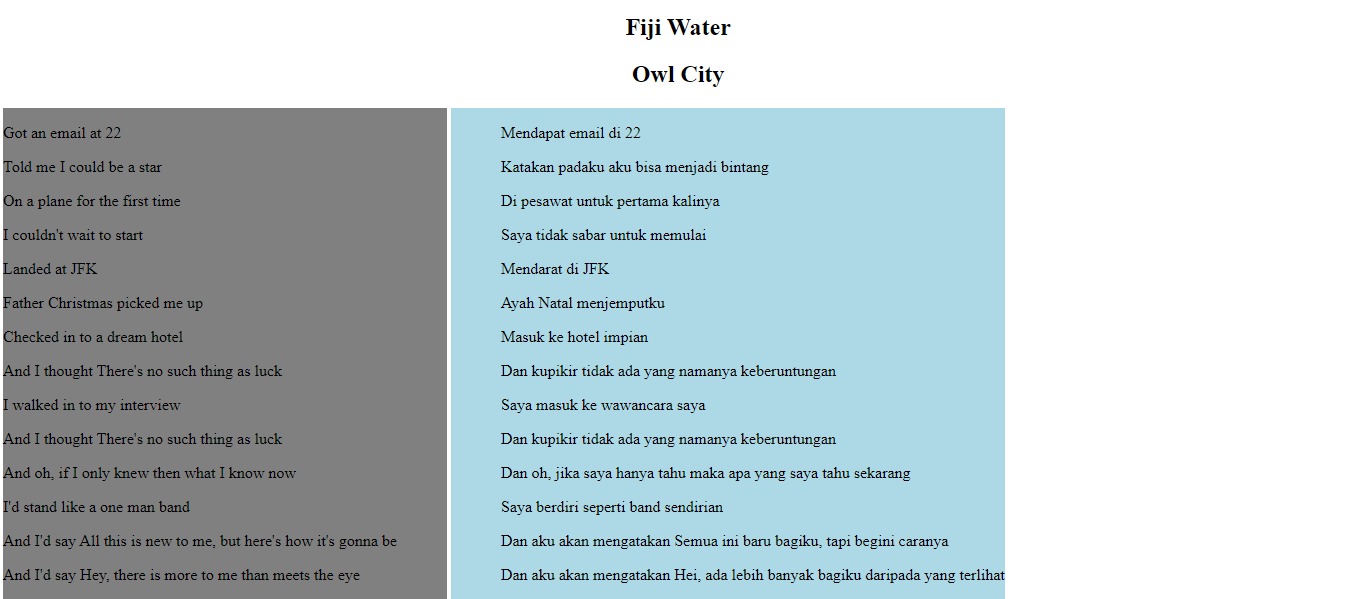
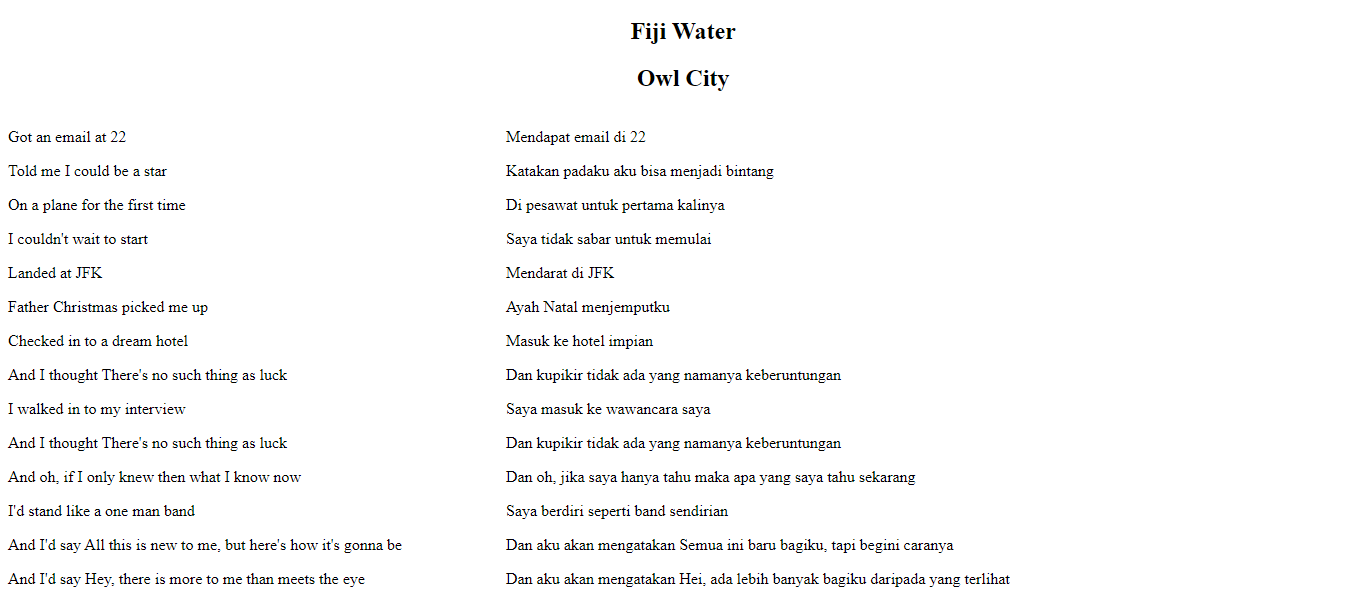
Revisi Case Study

diff --git a/dasar/css/layouting.md b/dasar/css/layouting.md
@@ -1,14 +1,16 @@
-# Permasalahan 
+# Layouting
+
+## 1. Permasalahan 
 
 Sejauh ini, kita telah belajar bagaimana cara membuat tampilan web dan memberikan beberapa property pada tampilan tersebut. Kali ini, kita akan belajar tentang layouting atau tata letak. Sebelumnya, semua elemen seperti `text`, `gambar`, `gif`, dan lain lain hanya tersusun secara vertikal. Lalu bagaimanakah caranya jika kita ingin menyusun secara horizontal? 
 
-# Penjelasan Materi
+## 2. Penjelasan Materi
 
 Untuk membuat desain website seperti yang telah kita tanyakan tadi, kita perlu belajar melakukan layouting menggunakan CSS. Untuk melakukan hal tersebut kita dapat menggunakan property `display` untuk menentukan layout suatu elemen, ada beberapa jenis layout yang bisa kita gunakan, yaitu `block`, `inline`, `inline-block`, dan `flexbox`. Namun kali ini kita hanya belajar `block`, `inline`, dan `inline-block` saja.
 
-# Detail Materi
+## 3. Detail Materi
 
-## 1. Block
+### 3.1. Block
 Pernahkah kalian bertanya-tanya, mengapa susunan tampilan web yang dibuat sebelumnya tidak pernah tersusun secara horizontal? Alasannya adalah ada `tag` yang memiliki display property default block. Atau tag tersebut memiliki lebar selebar layar. Bagaimana maksudnya? Mari kita lihat contoh berikut.
 
 ```html
@@ -59,7 +61,7 @@ Tampilannya akan menjadi seperti ini :
 
 Dari background kedua tag tersebut kita bisa membuktikan bahwa display `block` membuat baris baru karena display tersebut memiliki lebar selebar layar sehingga kita tidak bisa memberi elemen apapun di samping elemen dari tag yang memiliki display `block`.
 
-## 2. Inline
+### 3.2. Inline
 
 Inline merupakan layout default yang diterapkan ke beberapa elemen seperti `span`, `b`, `i` dan sebagainya. Ciri khas dari layout ini yaitu mengikuti baris yang sudah ada. 
 
@@ -102,7 +104,7 @@ Tampilannya akan menjadi seperti ini :
 
 Terbukti bahwa `margin` dan `padding` hanya mendorong elemen secara horizontal karena text di baris kedua tidak terdorong ke bawah.
 
-## 3. Inline Block
+### 3.3. Inline Block
 
 Inline block mirip dengan inline, yaitu akan selalu mengikuti baris yang sudah ada. 
 
@@ -136,9 +138,13 @@ Tampak sama bukan? Namun, apabila kita memberikan `margin` dan `padding`, maka i
 
 ![inline-block-padding](inline-block-with-marg-and-padd.png)
 
-# Case Study
+## 4. Case Study
 
 Sebagai contoh studi kasus untuk materi layouting, kita akan membuat tampilan untuk lirik lagu dan terjemahannya. Yang akan kita tampilkan adalah judul lagu, nama penyanyi, lalu lirik lagu original, dan di sampingnya terdapat lirik lagu terjemahan. 
+
+### 4.1. Membuat file HTML
+
+Pertama, kita buat file `html` berisi judul lagu, penyanyi, dan lirik lagunya. Untuk judul lagu, gunakan `h1` dan untuk penyanyinya, gunakan `h2`. Buat tag `span` untuk lirik per bahasanya agar bisa kita jadikan horizontal, lalu letakkan per baris lirik dengan tag `p` agar liriknya membuat baris baru dan tidak menjadi satu paragraf. 
 
 ```html
 <!-- index.html -->
@@ -150,7 +156,7 @@ Sebagai contoh studi kasus untuk materi layouting, kita akan membuat tampilan un
     <link rel="stylesheet" href="style.css">
 </head>
 <body>
-    <h2>Fiji Water</h2>
+    <h1>Fiji Water</h2>
     <h2>Owl City</h2>
     <span class="lyrics">
     <p>Got an email at 22</p>
@@ -188,24 +194,40 @@ Sebagai contoh studi kasus untuk materi layouting, kita akan membuat tampilan un
 </html>
 ```
 
+Karena kita belum membuat file `CSS`, tampilannya hanya ada tulisan yang tersusun secara vertikal saja.
+
+### 4.2. Formatting judul
+
+Oleh karena itu, kita lanjutkan dengan membuat file `CSS`. Pertama tama, kita buat formatting judulnya. Tag judul yang kita pakai adalah `h1` dan `h2`. Kita buat agar judul tersebut menjadi center.
+
 ```css
 /* style.css */
+h1{
+    text-align: center;
+}
 h2{
     text-align: center;
 }
+```
 
+### 4.3 Memberikan Display Property
+
+Langkah selanjutnya, kita buat display property untuk tiap tag `span`. Kita akan buat dengan display `inline-block` agar jika kita memberi elemen di atas dan di bawah tag `span`, elemen tersebut tidak berdempet. Beri `padding` di kanan tag `span` yang berada di kiri, agar jarak antar `span` tidak terlalu dekat. Beri juga `padding` kiri di tag `span` sebelah kanan.
+ 
+```css
+/* style.css */
 .lyrics{
     display: inline-block;
-    background-color: gray;
     padding-right: 50px;
 }
 
 .trslyrics{
     display: inline-block;
     padding-left: 50px;
-    background-color: lightblue;
 }
 ```
+
+### 4.4 Hasil Akhir
 
 Tampilannya akan menjadi seperti ini :
 
